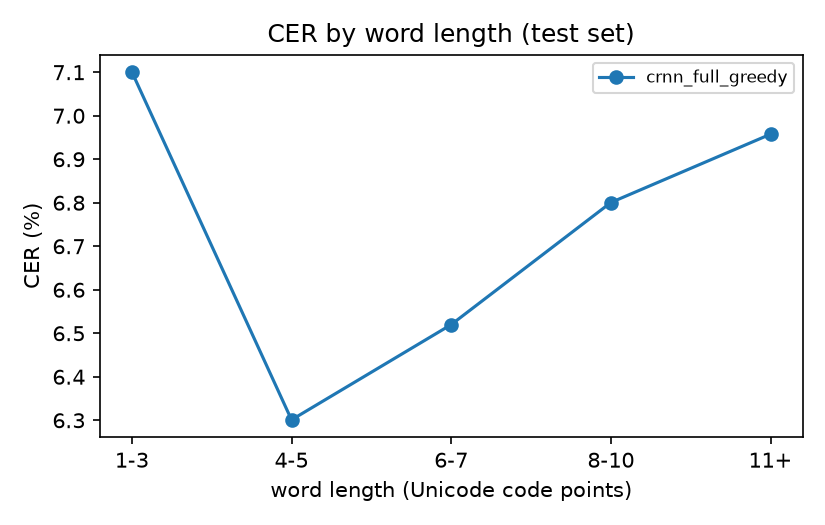
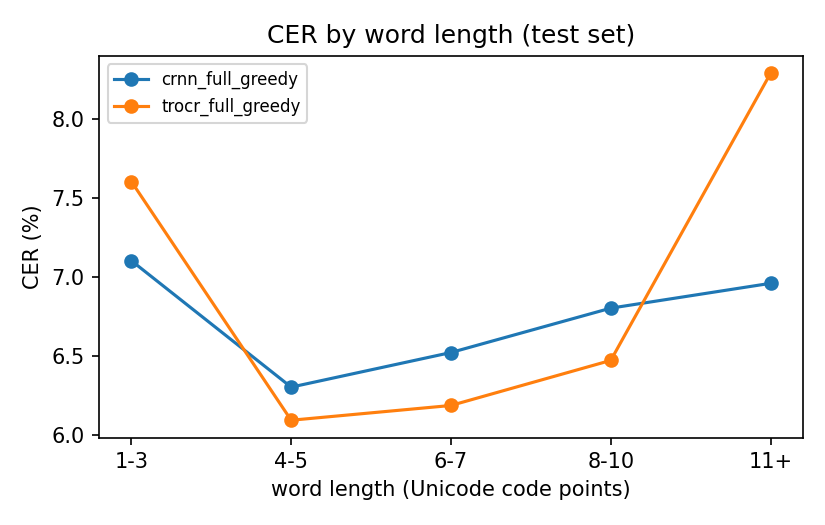
Fill README row C; write results and analysis section; regenerate summary tables and charts with the TrOCR run

diff --git a/report/sections/07_results_analysis.md b/report/sections/07_results_analysis.md
@@ -1,6 +1,6 @@
 # 7. Results and analysis
 
-*Owner: Monu, with tables and figures from Ravi's `results/summary/`. Every number comes from `results/*/metrics.json`. Delete italic notes.*
+*All numbers come from `results/*/metrics.json`, `results/*/test_predictions.csv` and `results/summary/error_analysis.md`.*
 
 ## 7.1 Main comparison
 
@@ -8,11 +8,13 @@ All models are evaluated on their own test set, once, with the shared metric cod
 
 | Model | Test data | Level | Decoding | CER ↓ | WER ↓ | Accuracy ↑ | Parameters | Train time |
 |---|---|---|---|---|---|---|---|---|
-| A: CNN | DHCD test (13,800 isolated characters) | Character | argmax | TODO | n/a | TODO | TODO | TODO |
-| B: CRNN-CTC | IIIT-HW-Dev test | Word | greedy | TODO | TODO | TODO | TODO | TODO |
-| C: TrOCR-style | IIIT-HW-Dev test | Word | greedy | TODO | TODO | TODO | TODO | TODO |
+| A: CNN | DHCD test (13,800 isolated characters) | Character | argmax | 0.30 % | n/a | 99.72 % | 1.18 M | 1.5 min |
+| B: CRNN-CTC | IIIT-HW-Dev test (12,869 words) | Word | greedy | 6.59 % | 26.05 % | 73.95 % | 7.71 M | 82.1 min |
+| C: TrOCR-style | IIIT-HW-Dev test (12,869 words) | Word | greedy | 6.47 % | 22.32 % | 77.68 % | 28.86 M | 89.7 min |
 
-*Add one bar chart of CER and WER (`results/summary/`).*
+For Model B the train time is the time to the best epoch (epoch 22 of 25; the whole run took 93.3 min). For Model A, accuracy is the main metric, and its CER is computed over Unicode code points, so it is not exactly 1 − accuracy (क्ष, त्र and ज्ञ have three code points each).
+
+![Test CER and WER of the three models](../../results/summary/results_chart.png)
 
 ## 7.2 Why the character and word error rates are not directly comparable
 
@@ -20,29 +22,78 @@ The CNN is tested on **isolated consonants and digits** with no vowels, no vowel
 
 ## 7.3 CRNN against TrOCR-style
 
-*TODO: which is better in CER and WER, by how much, and what it cost (parameters, training time, speed). State honestly if one model had a reduced training budget.*
+At character level the two word models are equal: CER 6.47 % for TrOCR against 6.59 % for the CRNN, a difference of 0.12 points. At word level TrOCR is better: WER 22.32 % against 26.05 %, so 2,873 test words are wrong against 3,353 (480 fewer). The two models do not fail on the same words: 1,827 words are wrong for both, 1,526 only for the CRNN and 1,046 only for TrOCR.
+
+TrOCR pays for this. It has 28.9 M parameters against 7.7 M (3.7 times more), trained for about 90 min against 82 min, and needs 70.6 ms per image against 3.6 ms (about 20 times slower). Both models were trained on all 69,853 training words, but under different budgets: the CRNN for 25 epochs and TrOCR for 5, and TrOCR's validation CER was still falling at its last epoch (Section 6.4). Each result is a single run with one seed, so the 0.12-point CER difference is within what a different seed could change; we only claim that TrOCR is slightly better at word level.
 
 ## 7.4 Word frequency
 
-Every test word occurs in the training split and the test writers are new, so the test measures generalisation to new writers, not to new words (Section 3.5). To see whether rarer words are harder, we group the test images by how often their word occurs in the training split.
+Every test word occurs in the training split and the test writers are new, so the test measures generalisation to new writers, not to new words (Section 3.5). To see whether rarer words are harder, we group the test images by how often their word occurs in the training split. Every test word occurs between 5 and 18 times in training, so the groups are narrow and the usual "rare word" case (1 to 4 occurrences) does not exist in this split.
 
 | Occurrences of the word in training | Share of test images | CER B: CRNN-CTC | CER C: TrOCR-style |
 |---|---|---|---|
-| 1 to 4 | TODO | TODO | TODO |
-| 5 to 19 | TODO | TODO | TODO |
-| 20 or more | TODO | TODO | TODO |
+| 5 to 6 | 33.47 % | 6.41 % | 6.49 % |
+| 7 to 9 | 65.56 % | 6.70 % | 6.48 % |
+| 10 or more | 0.97 % (125 images) | 5.02 % | 4.73 % |
 
-*TODO: one sentence on the gap. Adjust the bucket limits after looking at the distribution in `train.csv`.*
+The CER differs by less than 2 points across the groups and has no clear trend, apart from the lowest value in the 125-image group, which is too small to draw conclusions from. With this split we cannot say how the models behave on words they have never seen.
 
 ## 7.5 Error analysis
 
-*Produced by Ravi's error-analysis script from `results/*/test_predictions.csv`. Keep it to the points the data supports.*
+Counts below are character errors (substitutions, deletions and insertions) on the test split, aligned with the same edit distance as the CER. The full tables are in `results/summary/error_analysis.md`.
 
-- **Most confused characters.** *TODO: top pairs (true → predicted) for each model, in a small table.*
-- **Kinds of errors.** *TODO: error rate on vowel signs (ा ि ी ु ू े ै ो ौ), on conjuncts and the virama (्), on anusvara and chandrabindu (ं ँ), on plain consonants.*
-- **Word length.** *TODO: CER by word length, one small figure.*
-- **Examples.** *TODO: 4 to 6 failure cases (image, truth, prediction) with a one-line explanation each.*
+**Most confused characters (Model A).** The CNN makes few errors (39 of 13,800 images). The most frequent are द → ढ and ध → घ (4 images each), and ढ → द and त्र → ब (3 each); these are pairs with similar shapes.
+
+**Most confused characters (word models).**
+
+| Rank | CRNN: true → predicted (count) | TrOCR: true → predicted (count) |
+|---|---|---|
+| 1 | त → न (128) | य → स (93) |
+| 2 | म → ग (67) | त → न (92) |
+| 3 | ू → ु (60) | ध → घ (63) |
+| 4 | स → र (52) | ं → ँ (49) |
+| 5 | ध → घ (46) | ू → ु (49) |
+
+Both models mix up similar-looking consonants (त/न, ध/घ, म/ग) and the long and short vowel signs (ू/ु). TrOCR also confuses anusvara and chandrabindu (ं → ँ, 49 times against 31 for the CRNN).
+
+**Kinds of errors.** Errors per true character of each type, counting insertions against the character type that was inserted:
+
+| Character type | Share of test characters | CRNN error rate | TrOCR error rate |
+|---|---|---|---|
+| Consonant | 56.39 % | 6.07 % | 5.99 % |
+| Vowel sign (matra) | 27.25 % | 4.94 % | 3.91 % |
+| Halant (conjuncts) | 6.41 % | 11.52 % | 14.29 % |
+| Anusvara / chandrabindu / visarga | 4.00 % | 10.33 % | 9.88 % |
+
+Conjunct handling is the hardest for both models (the halant is wrong 11.5 % and 14.3 % of the time), and TrOCR is worse here than the CRNN, mainly because it inserts a halant that is not in the word (467 insertions against 273). Vowel signs are easier for TrOCR (3.91 % against 4.94 %), which fits the idea that a decoder that sees the neighbouring characters helps with signs whose form depends on the base letter, although we did not test this directly. The most frequent error is the plain consonant substitution; consonants make up about half of all errors for both models (51.9 % and 52.3 %).
+
+**Word length.**
+
+| Length (code points) | Test words | CRNN CER | TrOCR CER |
+|---|---|---|---|
+| 1 to 3 | 1,218 | 7.10 % | 7.60 % |
+| 4 to 5 | 4,911 | 6.30 % | 6.09 % |
+| 6 to 7 | 3,924 | 6.52 % | 6.18 % |
+| 8 to 10 | 2,292 | 6.80 % | 6.47 % |
+| 11 or more | 524 | 6.96 % | 8.29 % |
+
+![CER by word length for the word models](../../results/summary/cer_by_length.png)
+
+The CRNN's CER is almost flat across lengths (6.30 to 7.10 %). TrOCR is better than the CRNN for words of 4 to 10 characters, but worse for the shortest words (1 to 3) and for the longest (11 or more, 8.29 %). The longest words are the ones most distorted when resized to a square input (Section 6.5), which may be one reason, but we did not test it.
+
+**Examples.** Failure cases from the test split (the image path is `data/raw/iiit_hw_dev/HindiSeg/test/...`). The explanations describe what differs, not why the model chose it.
+
+| Image | Truth | CRNN | TrOCR | What went wrong |
+|---|---|---|---|---|
+| `11/11/12.jpg` | पत्ते | पन्ने | पत्ने | त read as न (the most frequent confusion); TrOCR gets the first half of the conjunct (त्) right |
+| `11/29/14.jpg` | नंबर | नबर | नबर | both drop the anusvara |
+| `6/64/42.jpg` | आंध्र | आंध | आंघ्र | CRNN loses the final conjunct; TrOCR reads ध as घ |
+| `6/49/20.jpg` | रिवाज़ | रिवाज | रिवाज | both drop the nukta |
+| `6/130/28.jpg` | खुला। | खुला | खुला | both drop the final danda |
+| `9/97/35.jpg` | भुट्टे | भुंट्टे | भुट्ट | CRNN inserts an anusvara; TrOCR drops the last vowel sign |
+
+Small marks (anusvara, nukta, danda) are the ones most often missing in both models; the nukta and the punctuation together account for 5.3 % (CRNN) and 5.9 % (TrOCR) of all errors.
 
 ## 7.6 Low-resource discussion
 
-*TODO: two or three sentences linking the results to the low-resource setting: the limited vocabulary, the small amount of labelled data, and whether pre-training (Model C) helped. Do not claim results from experiments that were not run.*
+The training set is small and covers only 7 writers, and the test words all occur in training, so the vocabulary is limited and the main difficulty is the handwriting of new writers. In this setting a model pre-trained on English handwriting (Model C) reached the same CER as the CRNN trained from scratch and a 3.7-point lower WER, at about 4 times the parameters and 20 times the prediction time. We did not train TrOCR from scratch, so we cannot say how much of its result is due to pre-training, and with one run each we cannot say that the CER difference is real.

diff --git a/results/summary/error_analysis.md b/results/summary/error_analysis.md
@@ -6,6 +6,7 @@
 |---|---|---|---|---|---|---|
 | char_cnn_full_argmax | char_cnn | character | 0.30 % | n/a | 99.72 % | 13800 |
 | crnn_full_greedy | crnn | word | 6.59 % | 26.05 % | 73.95 % | 12869 |
+| trocr_full_greedy | trocr | word | 6.47 % | 22.32 % | 77.68 % | 12869 |
 
 The CNN reads one isolated consonant or digit; the word models read whole words with vowel signs and conjuncts. The numbers measure different tasks and are not directly comparable.
 
@@ -71,4 +72,52 @@ The CNN reads one isolated consonant or digit; the word models read whole words 
 | 6-7 | 3924 | 6.52 % |
 | 8-10 | 2292 | 6.80 % |
 | 11+ | 524 | 6.96 % |
+
+## trocr_full_greedy
+
+4,992 character errors on 12,869 test words (2,873 words wrong).
+
+### Errors by type of the true character
+
+| Character type | Share of test characters | Substitutions | Deletions | Insertions | Share of all errors |
+|---|---|---|---|---|---|
+| consonant | 56.39 % | 1764 | 203 | 642 | 52.26 % |
+| vowel sign (matra) | 27.25 % | 443 | 193 | 186 | 16.47 % |
+| halant (conjuncts) | 6.41 % | 54 | 186 | 467 | 14.16 % |
+| anusvara / chandrabindu / visarga | 4.00 % | 90 | 104 | 111 | 6.11 % |
+| independent vowel | 3.47 % | 180 | 14 | 30 | 4.49 % |
+| punctuation (danda, hyphen) | 1.15 % | 15 | 131 | 2 | 2.96 % |
+| nukta | 1.14 % | 17 | 80 | 49 | 2.92 % |
+| digit | 0.15 % | 13 | 2 | 1 | 0.32 % |
+| other | 0.04 % | 10 | 5 | 0 | 0.30 % |
+
+### Top 15 character substitutions (true → predicted)
+
+| True | Predicted | Count |
+|---|---|---|
+| य | स | 93 |
+| त | न | 92 |
+| ध | घ | 63 |
+| ं | ँ | 49 |
+| ू | ु | 49 |
+| म | ग | 43 |
+| व | त | 39 |
+| य | म | 38 |
+| ु | ू | 32 |
+| े | ो | 28 |
+| य | थ | 28 |
+| र | श | 28 |
+| ब | व | 27 |
+| ट | द | 27 |
+| त | ल | 27 |
+
+### CER by word length (code points)
+
+| Length | Test words | CER |
+|---|---|---|
+| 1-3 | 1218 | 7.60 % |
+| 4-5 | 4911 | 6.09 % |
+| 6-7 | 3924 | 6.18 % |
+| 8-10 | 2292 | 6.47 % |
+| 11+ | 524 | 8.29 % |
 

diff --git a/README.md b/README.md
@@ -18,7 +18,7 @@ Filled in when the runs finish (test set, used once). Numbers come from `results
 |---|---|---|---|---|---|
 | A: CNN | Character | argmax | 0.30 % | n/a | 99.72 % |
 | B: CRNN-CTC | Word | greedy | 6.59 % | 26.05 % | 73.95 % |
-| C: TrOCR-style | Word | greedy | TODO | TODO | TODO |
+| C: TrOCR-style | Word | greedy | 6.47 % | 22.32 % | 77.68 % |
 
 ## What each member did
 
